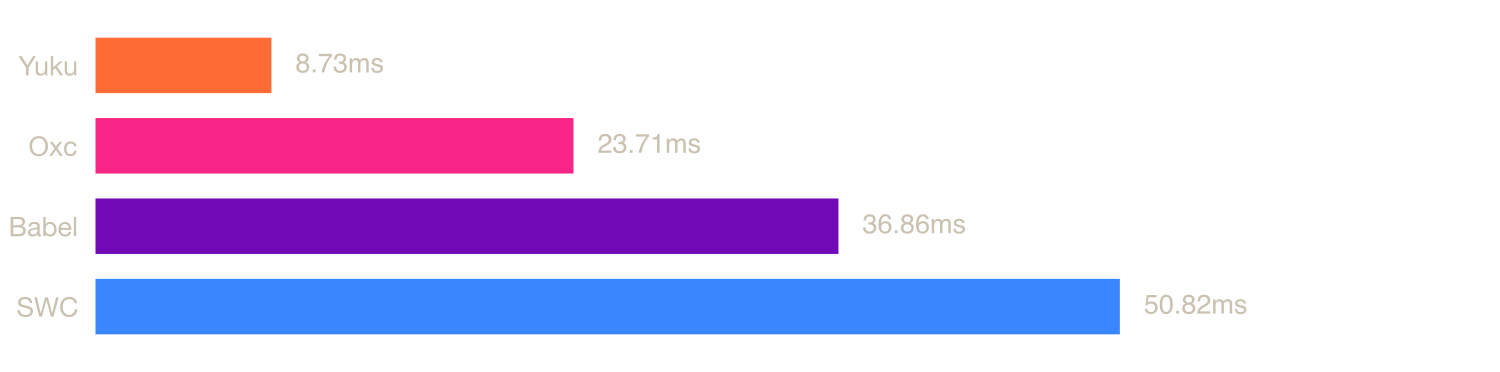
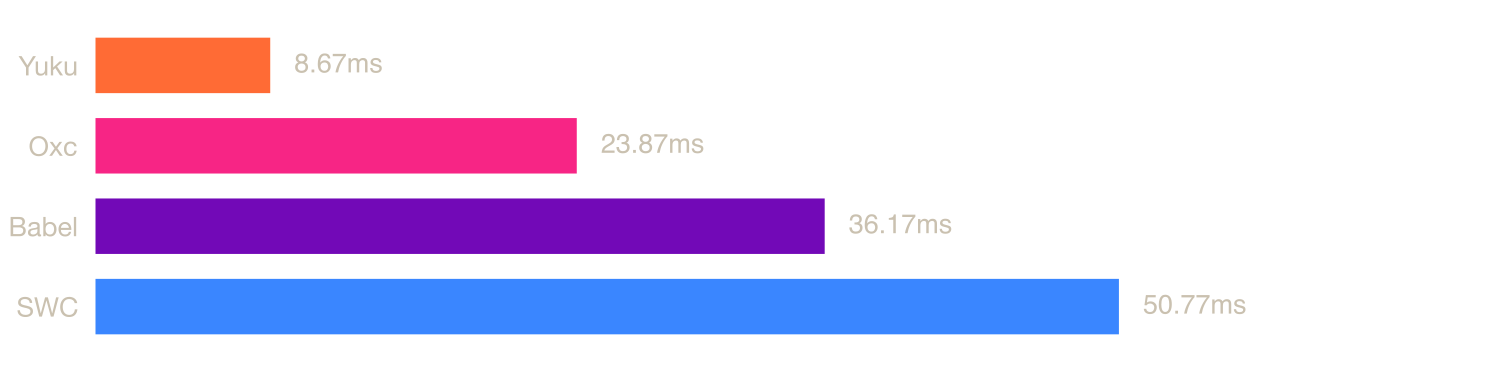
update parsers

diff --git a/README.md b/README.md
@@ -43,11 +43,11 @@ A high-performance & spec-compliant JavaScript/TypeScript compiler written in Zi
 
 | Parser | Median | RME | Mean | Min | Max | Ops/sec | Relative |
 |--------|--------|-----|------|-----|-----|---------|----------|
-| **Yuku** | **45.04 ms** | **±0.95%** | **45.61 ms** | **42.61 ms** | **87.42 ms** | **22.20 ops/s** | **baseline** |
-| Acorn | 137.50 ms | ±1.40% | 139.23 ms | 123.78 ms | 156.75 ms | 7.27 ops/s | 3.05× slower |
-| Babel | 164.14 ms | ±2.64% | 166.23 ms | 135.82 ms | 224.31 ms | 6.09 ops/s | 3.64× slower |
-| Oxc | 214.55 ms | ±0.28% | 215.76 ms | 209.82 ms | 249.82 ms | 4.66 ops/s | 4.76× slower |
-| SWC | 385.42 ms | ±2.32% | 401.71 ms | 373.26 ms | 571.98 ms | 2.59 ops/s | 8.56× slower |
+| **Yuku** | **45.00 ms** | **±0.59%** | **45.39 ms** | **42.60 ms** | **57.92 ms** | **22.22 ops/s** | **baseline** |
+| Acorn | 144.54 ms | ±1.74% | 145.85 ms | 125.37 ms | 216.86 ms | 6.92 ops/s | 3.21× slower |
+| Babel | 163.80 ms | ±2.64% | 165.72 ms | 133.78 ms | 222.11 ms | 6.11 ops/s | 3.64× slower |
+| Oxc | 210.73 ms | ±0.21% | 211.18 ms | 208.49 ms | 217.12 ms | 4.75 ops/s | 4.68× slower |
+| SWC | 374.01 ms | ±1.18% | 381.96 ms | 367.59 ms | 496.17 ms | 2.67 ops/s | 8.31× slower |
 
 ### [checker.ts](https://raw.githubusercontent.com/yuku-toolchain/parser-benchmark-files/refs/heads/main/checker.ts)
 
@@ -57,10 +57,10 @@ A high-performance & spec-compliant JavaScript/TypeScript compiler written in Zi
 
 | Parser | Median | RME | Mean | Min | Max | Ops/sec | Relative |
 |--------|--------|-----|------|-----|-----|---------|----------|
-| **Yuku** | **16.89 ms** | **±0.60%** | **17.20 ms** | **15.57 ms** | **84.49 ms** | **59.21 ops/s** | **baseline** |
-| Oxc | 62.13 ms | ±0.62% | 63.23 ms | 60.56 ms | 85.52 ms | 16.10 ops/s | 3.68× slower |
-| Babel | 67.27 ms | ±1.39% | 67.52 ms | 54.60 ms | 99.36 ms | 14.87 ops/s | 3.98× slower |
-| SWC | 120.55 ms | ±0.30% | 120.73 ms | 117.93 ms | 127.31 ms | 8.30 ops/s | 7.14× slower |
+| **Yuku** | **16.88 ms** | **±0.55%** | **17.13 ms** | **15.60 ms** | **39.22 ms** | **59.23 ops/s** | **baseline** |
+| Oxc | 62.16 ms | ±0.78% | 63.38 ms | 60.59 ms | 108.56 ms | 16.09 ops/s | 3.68× slower |
+| Babel | 67.34 ms | ±1.25% | 67.67 ms | 53.97 ms | 110.63 ms | 14.85 ops/s | 3.99× slower |
+| SWC | 121.14 ms | ±0.27% | 121.47 ms | 118.76 ms | 127.58 ms | 8.25 ops/s | 7.18× slower |
 | Acorn | Failed to parse | - | - | - | - | - | - |
 
 ### [lib.dom.d.ts](https://raw.githubusercontent.com/yuku-toolchain/parser-benchmark-files/refs/heads/main/lib.dom.d.ts)
@@ -71,10 +71,10 @@ A high-performance & spec-compliant JavaScript/TypeScript compiler written in Zi
 
 | Parser | Median | RME | Mean | Min | Max | Ops/sec | Relative |
 |--------|--------|-----|------|-----|-----|---------|----------|
-| **Yuku** | **8.73 ms** | **±0.42%** | **8.78 ms** | **7.89 ms** | **54.31 ms** | **114.59 ops/s** | **baseline** |
-| Oxc | 23.71 ms | ±0.74% | 24.11 ms | 22.93 ms | 69.41 ms | 42.17 ops/s | 2.72× slower |
-| Babel | 36.86 ms | ±0.77% | 36.80 ms | 31.24 ms | 69.96 ms | 27.13 ops/s | 4.22× slower |
-| SWC | 50.82 ms | ±0.50% | 50.79 ms | 48.94 ms | 73.76 ms | 19.68 ops/s | 5.82× slower |
+| **Yuku** | **8.67 ms** | **±0.68%** | **8.76 ms** | **7.89 ms** | **36.38 ms** | **115.37 ops/s** | **baseline** |
+| Oxc | 23.87 ms | ±0.89% | 24.24 ms | 23.03 ms | 75.74 ms | 41.89 ops/s | 2.75× slower |
+| Babel | 36.17 ms | ±1.24% | 36.54 ms | 30.91 ms | 69.46 ms | 27.64 ops/s | 4.17× slower |
+| SWC | 50.77 ms | ±0.64% | 50.93 ms | 49.38 ms | 83.83 ms | 19.70 ops/s | 5.86× slower |
 | Acorn | Failed to parse | - | - | - | - | - | - |
 
 ### [react.js](https://raw.githubusercontent.com/yuku-toolchain/parser-benchmark-files/refs/heads/main/react.js)
@@ -85,11 +85,11 @@ A high-performance & spec-compliant JavaScript/TypeScript compiler written in Zi
 
 | Parser | Median | RME | Mean | Min | Max | Ops/sec | Relative |
 |--------|--------|-----|------|-----|-----|---------|----------|
-| **Yuku** | **0.29 ms** | **±0.43%** | **0.34 ms** | **0.28 ms** | **5.03 ms** | **3420.76 ops/s** | **baseline** |
-| Acorn | 0.85 ms | ±0.36% | 0.91 ms | 0.80 ms | 9.80 ms | 1170.90 ops/s | 2.92× slower |
-| Babel | 1.10 ms | ±0.68% | 1.24 ms | 0.88 ms | 4.94 ms | 912.96 ops/s | 3.75× slower |
-| Oxc | 1.11 ms | ±0.51% | 1.19 ms | 1.08 ms | 15.32 ms | 900.26 ops/s | 3.80× slower |
-| SWC | 2.10 ms | ±0.74% | 2.20 ms | 2.04 ms | 33.71 ms | 476.17 ops/s | 7.18× slower |
+| **Yuku** | **0.29 ms** | **±0.39%** | **0.33 ms** | **0.28 ms** | **2.35 ms** | **3457.71 ops/s** | **baseline** |
+| Acorn | 0.85 ms | ±0.31% | 0.89 ms | 0.79 ms | 21.06 ms | 1179.88 ops/s | 2.93× slower |
+| Babel | 1.12 ms | ±0.72% | 1.26 ms | 0.90 ms | 15.86 ms | 896.48 ops/s | 3.86× slower |
+| Oxc | 1.12 ms | ±0.42% | 1.18 ms | 1.09 ms | 16.07 ms | 890.37 ops/s | 3.88× slower |
+| SWC | 2.09 ms | ±0.47% | 2.17 ms | 2.04 ms | 26.09 ms | 477.56 ops/s | 7.24× slower |
 
 ## Run Benchmarks
 
